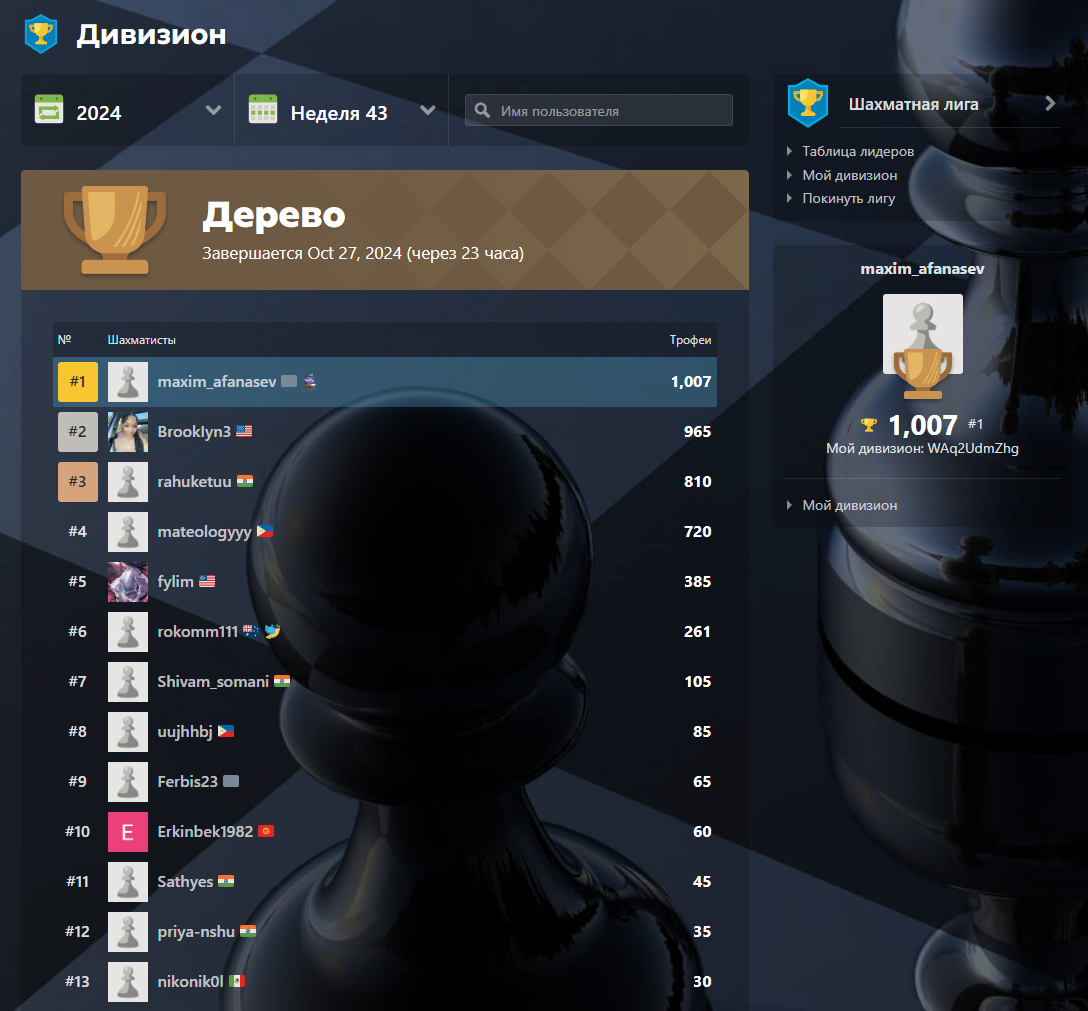
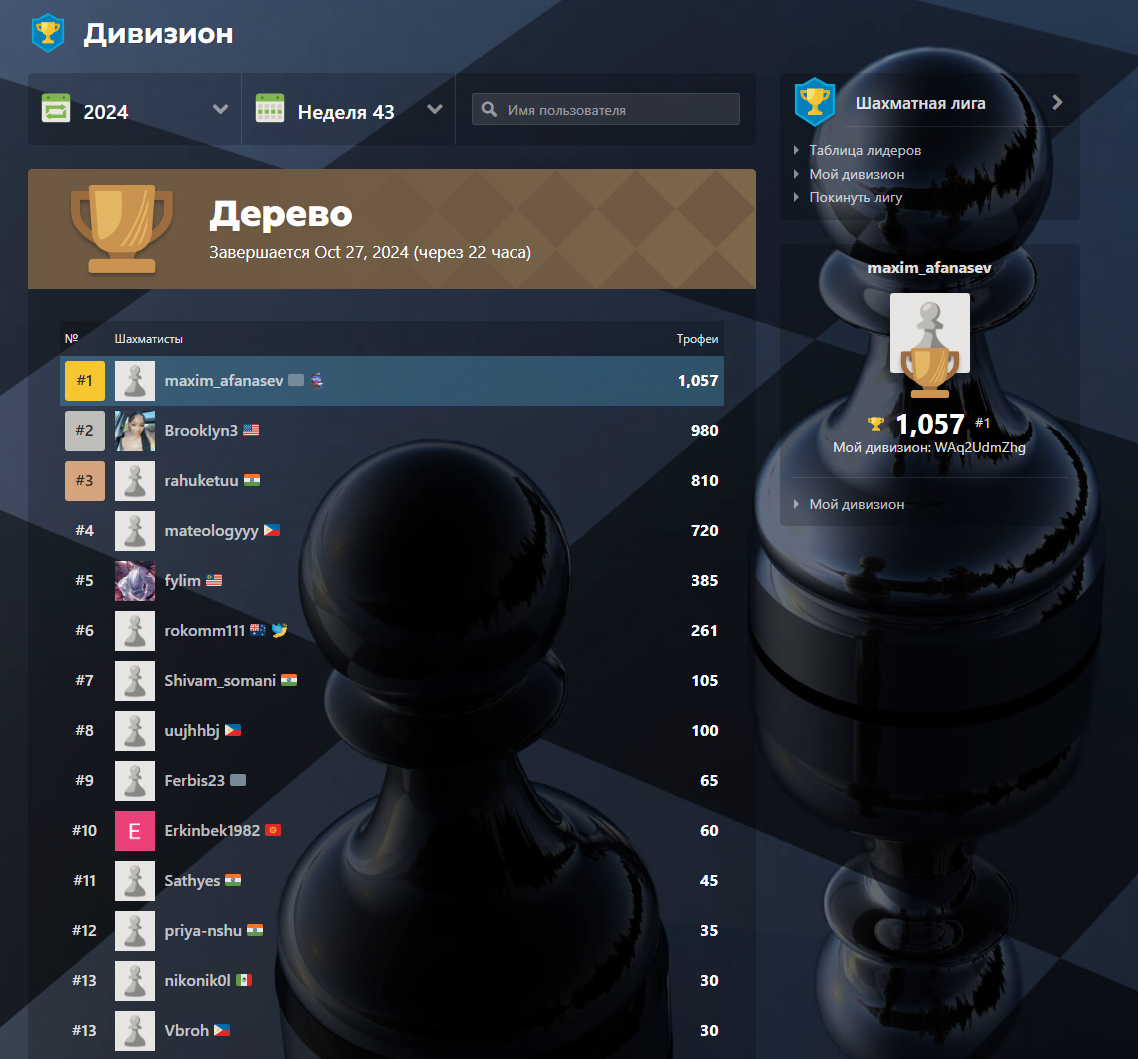
upd

diff --git a/index.html b/index.html
@@ -59,7 +59,7 @@
 <img src="img/vox.png" alt="">
 <p>После предложили в <a href="https://sberbankins.ru/" target="_blank">sber</a> на позицию angular frontend developer</p>
 
-<p>С детства не заладилось с игрой в шахматы, дед был военным интеллектуалом, который обыгрывал весь госпиталь. И мне не давал и шанса поднатореть в этом деле. Решил скачать приложение <a href="https://www.chess.com/" target="_blank">chess</a> и поиграть с ботами, там есть рейтинг и самый слабый бот с рейтингом 250 давал мне прикурить. Постоянно играя и учась на ошибках, иногда решай задачи и заучивая дебюты, мне удалось занять первое место по количеству выйгранных партий. Можно проверить по <a href="https://www.chess.com/leagues/wood/Aq2UdmZhg" target="_blank">ссылке</a></p>
+<p>С детства не заладилось с игрой в шахматы, дед был военным интеллектуалом, который обыгрывал весь госпиталь. И мне не давал и шанса поднатореть в этом деле. Решил скачать приложение <a href="https://www.chess.com/" target="_blank">chess</a> и поиграть с ботами, там есть рейтинг и самый слабый бот с рейтингом 250 давал мне прикурить. Постоянно играя и учась на ошибках, иногда решая задачи и заучивая дебюты, мне удалось занять первое место против реальных игроков по количеству выйгранных партий. Можно проверить по <a href="https://www.chess.com/leagues/wood/Aq2UdmZhg" target="_blank">ссылке</a></p>
 <img src="img/chess43.jpg" alt="">
 
 </body></html>
